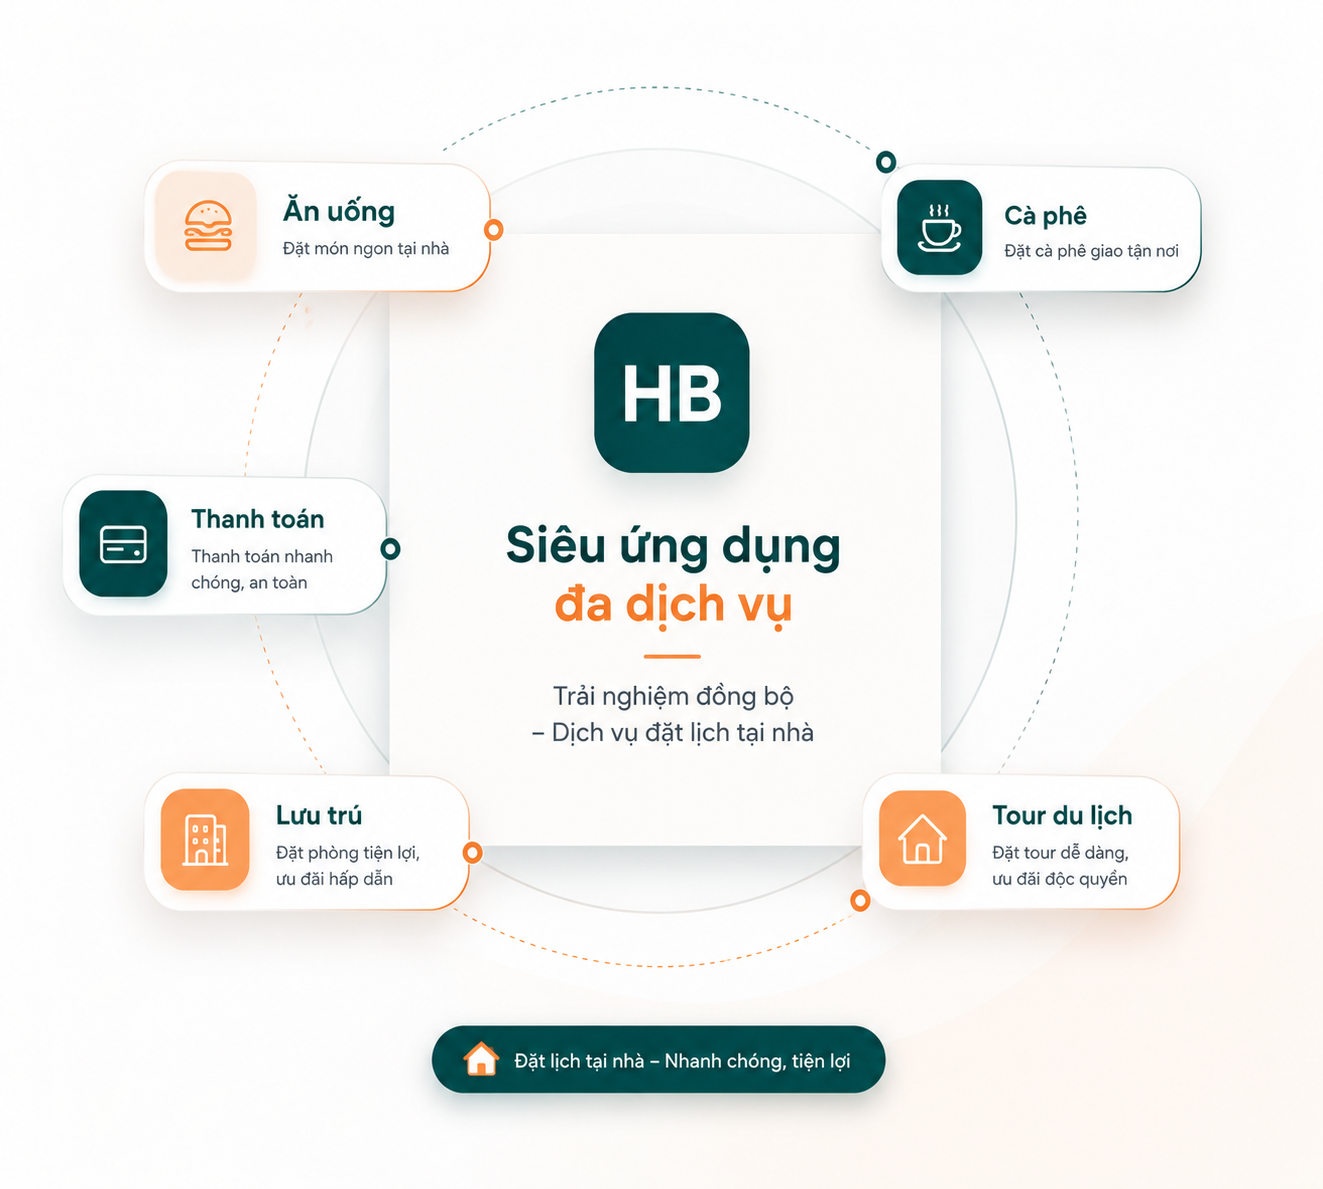
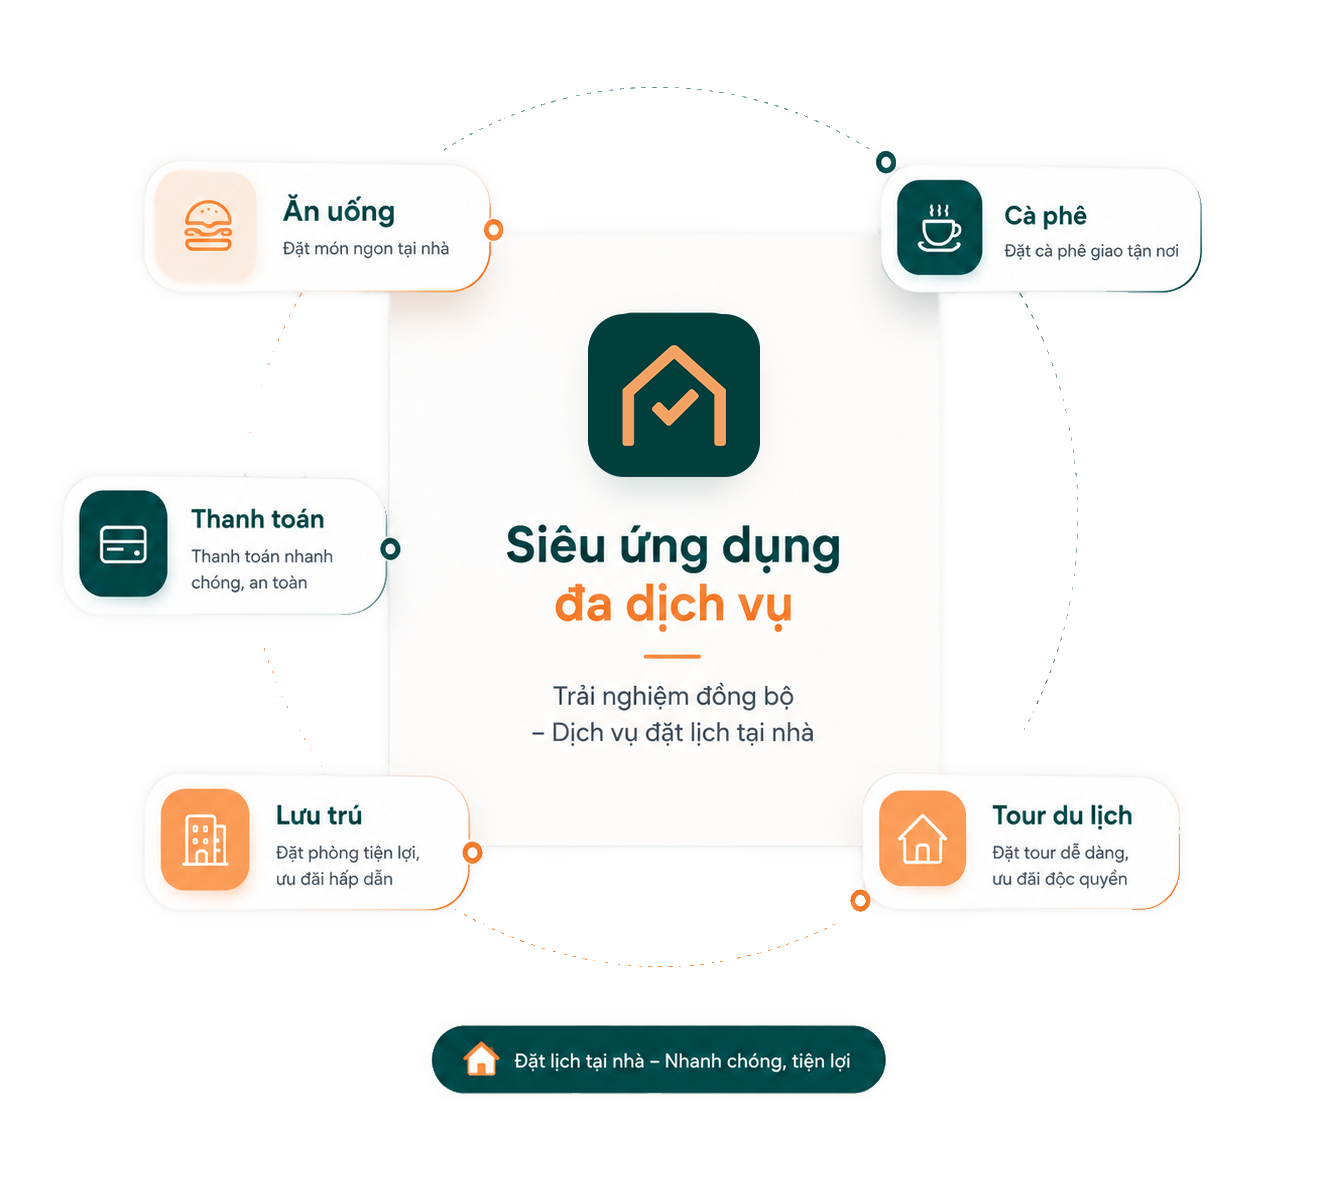
commit

diff --git a/src/App.css b/src/App.css
@@ -1498,31 +1498,11 @@ img {
 }
 
 .cta-mockup-phone {
-  width: 170px;
-  height: 350px;
-  border: 8px solid rgba(255, 255, 255, 0.15);
-  border-radius: 28px;
-  background-color: rgba(255, 255, 255, 0.05);
-  display: flex;
-  align-items: center;
-  justify-content: center;
-  position: relative;
-  box-shadow: var(--shadow-md);
-}
-
-.screen-logo-center {
-  width: 50px;
-  height: 50px;
-  border-radius: 12px;
-  background-color: var(--accent-gold);
-  color: var(--deep-forest);
-  font-family: var(--font-heading);
-  font-weight: 800;
-  font-size: 1.5rem;
-  display: flex;
-  align-items: center;
-  justify-content: center;
-  box-shadow: var(--shadow-sm);
+  width: min(220px, 100%);
+  height: auto;
+  display: block;
+  object-fit: contain;
+  filter: drop-shadow(0 18px 28px rgba(0, 0, 0, 0.22));
 }
 
 /* CTA Download details */

diff --git a/src/App.tsx b/src/App.tsx
@@ -23,6 +23,7 @@ import canthoImg from './assets/cantho.jpg'
 import haiphongImg from './assets/haiphong.jpg'
 import aboutImg from './assets/about.png'
 import qrCodeImg from './assets/qr_code.png'
+import phoneImg from './assets/phone.png'
 
 
 // ecosystemCategories definition removed to prevent unused variable compiler warning
@@ -599,9 +600,7 @@ function App() {
               </div>
 
               <div className="cta-phone-mockup-wrapper" data-aos="zoom-in" data-aos-delay="300">
-                <div className="cta-mockup-phone">
-                  <div className="screen-logo-center">HB</div>
-                </div>
+                <img src={phoneImg} alt="Ứng dụng HomeBooking trên điện thoại" className="cta-mockup-phone" />
               </div>
 
               <div className="cta-download-actions" data-aos="fade-left" data-aos-delay="250">